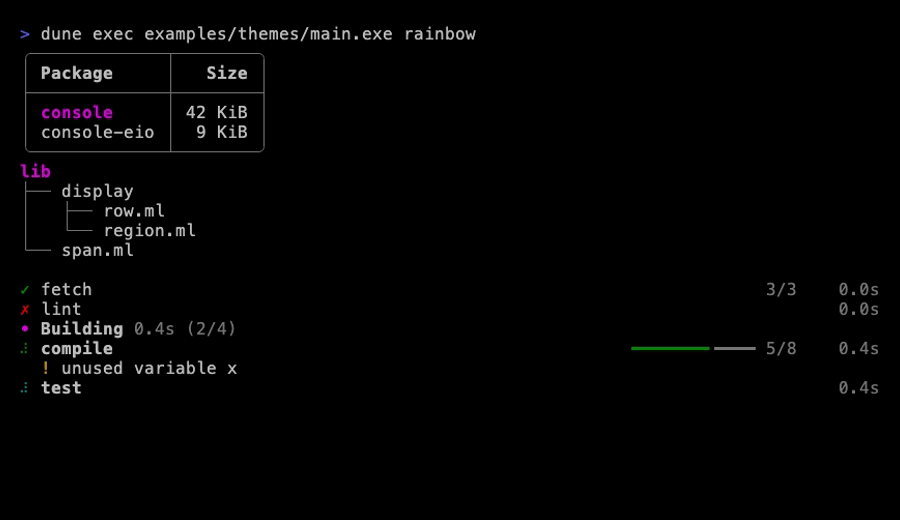
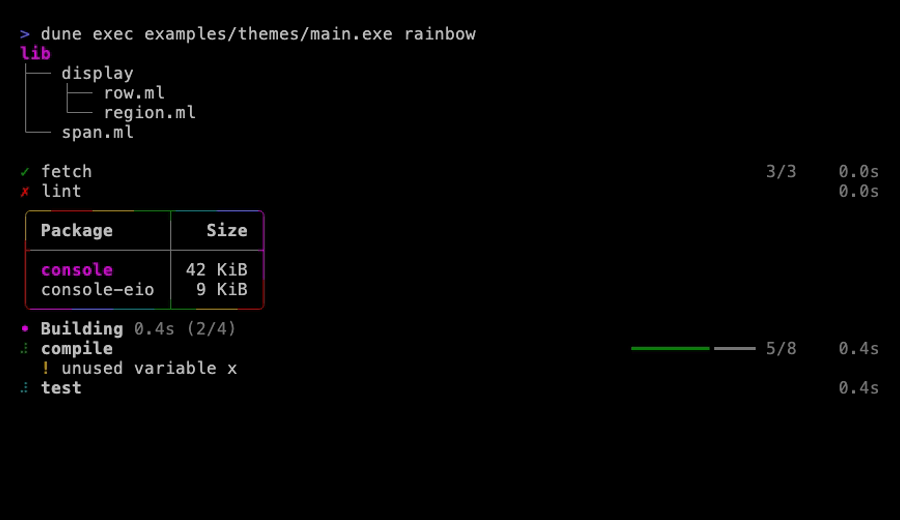
console: show a live table in the examples, and record it
The display example keeps a table of its steps above the rows while
they run and prints it when the build is done; a theme named on its
command line draws it, and its tape records it in matrix as well,
digital rain running round the frame. The themes example draws its
table the same way, so each picture of the gallery, all recorded again
(the dos one predated its block bars), catches its theme's motion. The
README shows the scene, the motion of each theme and Theme.still.

diff --git a/README.md b/README.md
@@ -20,7 +20,8 @@ It has:
 - correct alignment for wide characters, such as Chinese, Japanese, Korean
   and emoji, which take two columns on screen;
 - eighteen themes, from the colour schemes you may already use, chosen
-  with one `--theme` option.
+  with one `--theme` option; in most of them the frame of a table shown
+  while work runs moves.
 
 ## Installation
 
@@ -121,6 +122,38 @@ Run as `ready --color=never`, it prints plain text:
 ready
 - : int = 0
 ```
+
+## A table while work runs
+
+![A build in Theme.matrix, digital rain running round the frame of its table](examples/display/matrix.gif)
+
+`Display.set_scene` draws what a printer prints above the rows, each time
+they are redrawn: a table of results that fills in as the work goes, say.
+Its width is the rows', and it is drawn in the display's theme:
+
+```ocaml
+let watch display (results : unit -> Console.Table.t) =
+  Console.Display.set_scene display (fun ~height:_ ppf ->
+      Console.Table.pp ppf (results ()))
+```
+
+In a theme with motion (`Theme.motion`), the frame of a table or a panel
+in a scene moves, by the time since the display started: digital rain in
+`Theme.matrix`, the colours of the rainbow sweeping round it in
+`Theme.rainbow`, and a highlight of the main colour going round it in the
+themes of colour schemes. Only colours and glyphs change, never a width,
+so the columns stay aligned in every frame. The same table printed with
+`Fmt`, on a pipe, or without colour is still, and so is every frame of a
+theme passed through `Theme.still`, which also stops the spinner, for the
+users who ask for no animation:
+
+```ocaml
+let theme ~no_motion t = if no_motion then Console.Theme.still t else t
+```
+
+A scene is drawn only on a terminal and goes when the display closes:
+print the table again once the work is done, as
+[the example](examples/display/main.ml) does.
 
 ## Styles and widgets
 
@@ -260,8 +293,8 @@ rootfs.tar  ━━━━━━━━━╺
 Every widget is drawn in the theme of the formatter it is printed on, which
 `Theme.set` chooses, as `Fmt.set_style_renderer` chooses its colours: the
 main colour, the colours of success, warning and failure, the marks, the
-frame style, the lines that connect tree branches, the bars and the
-spinner. The
+frame style and how it moves, the lines that connect tree branches, the
+bars and the spinner. The
 themes are shown [at the end](#themes). `Theme.all` names them all, so a
 `--theme` option is one line of
 [Cmdliner](https://erratique.ch/software/cmdliner):
@@ -307,7 +340,7 @@ The `console` library:
 | `Console.Rule` | Horizontal lines with an optional title |
 | `Console.Bar` | Horizontal bars, for progress and for figures |
 | `Console.Spinner` | Spinners for work of unknown length |
-| `Console.Display` | Progress rows that update in place, or plain lines outside a terminal |
+| `Console.Display` | Progress rows that update in place, under a scene such as a table, or plain lines outside a terminal |
 | `Console.Input` | A line editor that turns bytes typed into echo and lines, with history and completion; it does no input or output itself |
 
 The `console-eio` library:
@@ -372,11 +405,21 @@ with the `console` package; add `console.text` to the `libraries` of your
 
 Each picture is [the same program](examples/themes/main.ml) in one theme,
 recorded by [its tape](examples/themes/tape.ml), on the background the
-theme is made for. `Theme.default` reads on any background; a theme named
+theme is made for, while its progress rows run: the table above them is
+caught in the middle of its theme's motion. `Theme.default` reads on any background; a theme named
 after a colour scheme is for a terminal that uses that scheme, and its
 colours may be hard to read on another background. Every theme falls back
 to ASCII on a terminal whose locale is not UTF-8, as `Theme.ascii` always
 does.
+
+### Motion
+
+[The build in `Theme.matrix`](examples/display/matrix.gif), recorded by
+[its tape](examples/display/tape.ml), shows a frame moving. `Theme.matrix`
+rains (`` `Rain ``), `Theme.rainbow` sweeps its palette round
+(`` `Sweep ``), every theme named after a colour scheme shimmers in its main
+colour (`` `Shimmer ``), and `Theme.default`, `Theme.ascii` and `Theme.dos`
+stand still.
 
 ### `Theme.default`
 
